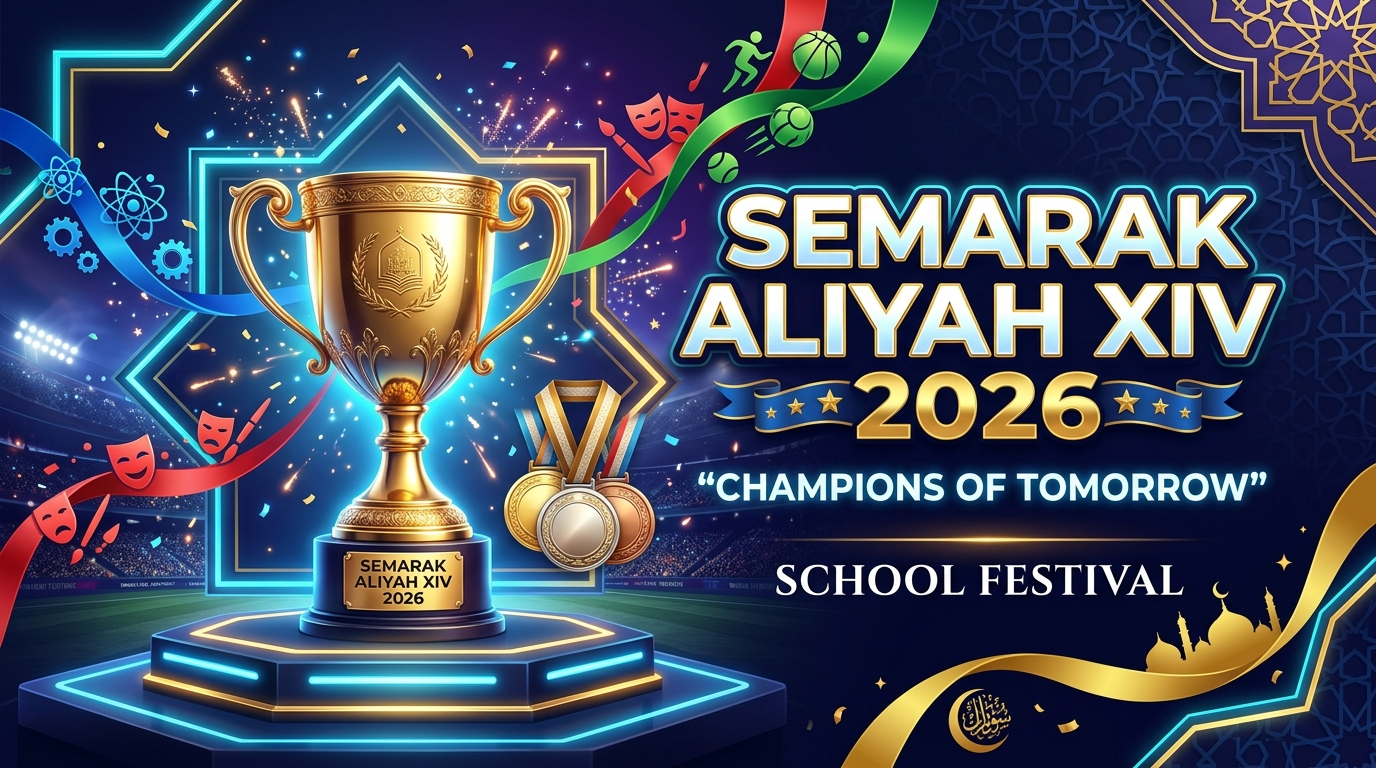
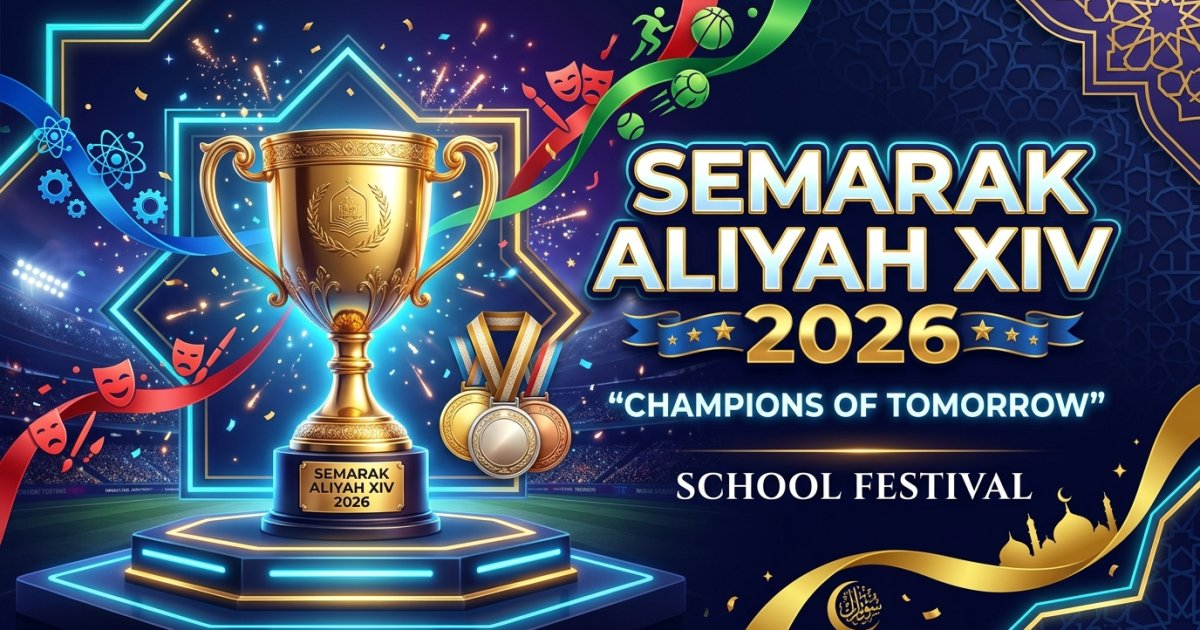
Auto commit

diff --git a/backend/resources/js/Pages/Admin/Settings/SeoOpenGraph.vue b/backend/resources/js/Pages/Admin/Settings/SeoOpenGraph.vue
@@ -311,7 +311,10 @@ function submitForm() {
                       class="form-control"
                       placeholder="/assets/img/og-thumbnail.jpg"
                     />
-                    <small class="text-muted fs-11 d-block mt-1">Ukuran ideal: 1200 x 630 px (Rasio 1.91:1) format JPG/PNG/WebP.</small>
+                    <small class="text-muted fs-11 d-block mt-1">
+                      <i class="ri-information-line text-info me-1"></i>
+                      Rekomendasi rasio: 1.91:1 (1200 x 630 px). WhatsApp mewajibkan ukuran file di bawah 300 KB. Sistem otomatis mengompresi gambar yang diunggah.
+                    </small>
                   </div>
 
                   <div class="col-md-5">

diff --git a/backend/resources/views/app.blade.php b/backend/resources/views/app.blade.php
@@ -15,14 +15,51 @@
         $seoKeywords = \App\Models\Setting::get('seo_meta_keywords', 'semarak aliyah, ma wahid hasyim balung, olimpiade mipa jember, olimpiade ips jember, storytelling, festival albanjari, singer lagu islami, voli jember, mobile legends');
         $seoAuthor = \App\Models\Setting::get('seo_author', 'Panitia ' . $eventName . ' • ' . $schoolName);
         $seoRobots = \App\Models\Setting::get('seo_robots', 'index, follow');
-        $seoCanonical = \App\Models\Setting::get('seo_canonical_url', url()->current());
         $seoThemeColor = \App\Models\Setting::get('seo_theme_color', '#8b5cf6');
+
+        $isHttps = request()->isSecure() || request()->header('x-forwarded-proto') === 'https' || str_starts_with(config('app.url'), 'https://');
+        
+        $currentUrl = url()->current();
+        if ($isHttps && str_starts_with($currentUrl, 'http://')) {
+            $currentUrl = 'https://' . substr($currentUrl, 7);
+        }
+
+        $seoCanonical = \App\Models\Setting::get('seo_canonical_url', $currentUrl);
+        if ($isHttps && str_starts_with($seoCanonical, 'http://')) {
+            $seoCanonical = 'https://' . substr($seoCanonical, 7);
+        }
+
         $ogTitle = \App\Models\Setting::get('seo_og_title', $seoTitle);
         $ogDesc = \App\Models\Setting::get('seo_og_description', $seoDesc);
-        $ogImage = \App\Models\Setting::get('seo_og_image', '/assets/img/og-thumbnail.jpg');
+        
+        $rawOgImage = \App\Models\Setting::get('seo_og_image', '/assets/img/og-thumbnail.jpg');
+        $ogImage = $rawOgImage;
         if (!str_starts_with($ogImage, 'http')) {
             $ogImage = url($ogImage);
         }
+        if ($isHttps && str_starts_with($ogImage, 'http://')) {
+            $ogImage = 'https://' . substr($ogImage, 7);
+        }
+        $ogImageSecure = str_replace('http://', 'https://', $ogImage);
+
+        // Specs image untuk card WhatsApp & Facebook
+        $parsedPath = parse_url($rawOgImage, PHP_URL_PATH) ?: $rawOgImage;
+        $localFilePath = public_path(ltrim($parsedPath, '/'));
+        $ogImageWidth = '1200';
+        $ogImageHeight = '630';
+        $ogImageType = 'image/jpeg';
+        $ogImageVersion = '';
+
+        if (file_exists($localFilePath)) {
+            $imgInfo = @getimagesize($localFilePath);
+            if ($imgInfo && !empty($imgInfo[0]) && !empty($imgInfo[1])) {
+                $ogImageWidth = (string)$imgInfo[0];
+                $ogImageHeight = (string)$imgInfo[1];
+                $ogImageType = $imgInfo['mime'] ?? 'image/jpeg';
+            }
+            $ogImageVersion = '?v=' . filemtime($localFilePath);
+        }
+
         $twitterCard = \App\Models\Setting::get('seo_twitter_card', 'summary_large_image');
     @endphp
 
@@ -36,18 +73,24 @@
 
     <!-- Open Graph / Facebook / WhatsApp -->
     <meta property="og:type" content="website" />
-    <meta property="og:url" content="{{ url()->current() }}" />
+    <meta property="og:locale" content="id_ID" />
+    <meta property="og:site_name" content="{{ $eventName }}" />
+    <meta property="og:url" content="{{ $currentUrl }}" />
     <meta property="og:title" content="{{ $ogTitle }}" />
     <meta property="og:description" content="{{ $ogDesc }}" />
-    <meta property="og:image" content="{{ $ogImage }}" />
-    <meta property="og:site_name" content="{{ $eventName }}" />
+    <meta property="og:image" content="{{ $ogImage . $ogImageVersion }}" />
+    <meta property="og:image:secure_url" content="{{ $ogImageSecure . $ogImageVersion }}" />
+    <meta property="og:image:type" content="{{ $ogImageType }}" />
+    <meta property="og:image:width" content="{{ $ogImageWidth }}" />
+    <meta property="og:image:height" content="{{ $ogImageHeight }}" />
+    <meta property="og:image:alt" content="{{ $ogTitle }}" />
 
     <!-- Twitter / X -->
     <meta name="twitter:card" content="{{ $twitterCard }}" />
-    <meta name="twitter:url" content="{{ url()->current() }}" />
+    <meta name="twitter:url" content="{{ $currentUrl }}" />
     <meta name="twitter:title" content="{{ $ogTitle }}" />
     <meta name="twitter:description" content="{{ $ogDesc }}" />
-    <meta name="twitter:image" content="{{ $ogImage }}" />
+    <meta name="twitter:image" content="{{ $ogImage . $ogImageVersion }}" />
 
     @if(request()->is('admin*') || request()->is('operasional*') || request()->is('login*'))
         <!-- Admin & Operasional Command Center Fonts & Assets -->

diff --git a/backend/app/Http/Controllers/Admin/SettingsController.php b/backend/app/Http/Controllers/Admin/SettingsController.php
@@ -225,8 +225,63 @@ class SettingsController extends Controller
         ]);
 
         if ($request->hasFile('seo_og_image_file')) {
-            $path = $request->file('seo_og_image_file')->store('seo', 'public');
-            $validated['seo_og_image'] = '/storage/' . $path;
+            $file = $request->file('seo_og_image_file');
+            $filename = 'og_' . time() . '.jpg';
+            $dir = storage_path('app/public/seo');
+            if (!file_exists($dir)) {
+                mkdir($dir, 0755, true);
+            }
+            $targetPath = $dir . DIRECTORY_SEPARATOR . $filename;
+            
+            $optimized = false;
+            if (extension_loaded('gd')) {
+                $srcImg = null;
+                $mime = $file->getMimeType();
+                $realPath = $file->getRealPath();
+
+                if ($mime === 'image/jpeg' || $mime === 'image/jpg') {
+                    $srcImg = @imagecreatefromjpeg($realPath);
+                } elseif ($mime === 'image/png') {
+                    $srcImg = @imagecreatefrompng($realPath);
+                } elseif ($mime === 'image/webp') {
+                    $srcImg = @imagecreatefromwebp($realPath);
+                }
+
+                if ($srcImg) {
+                    $origW = imagesx($srcImg);
+                    $origH = imagesy($srcImg);
+                    $targetW = 1200;
+                    $targetH = 630;
+                    $dstImg = imagecreatetruecolor($targetW, $targetH);
+
+                    // Smooth crop to 1200x630 (standard OG aspect ratio 1.91:1)
+                    $srcAspect = $origW / $origH;
+                    $targetAspect = $targetW / $targetH;
+                    if ($srcAspect > $targetAspect) {
+                        $newH = $origH;
+                        $newW = (int)($origH * $targetAspect);
+                        $srcX = (int)(($origW - $newW) / 2);
+                        $srcY = 0;
+                    } else {
+                        $newW = $origW;
+                        $newH = (int)($origW / $targetAspect);
+                        $srcX = 0;
+                        $srcY = (int)(($origH - $newH) / 2);
+                    }
+
+                    imagecopyresampled($dstImg, $srcImg, 0, 0, $srcX, $srcY, $targetW, $targetH, $newW, $newH);
+                    imagejpeg($dstImg, $targetPath, 85);
+                    imagedestroy($srcImg);
+                    imagedestroy($dstImg);
+                    $optimized = true;
+                }
+            }
+
+            if (!$optimized) {
+                $file->storeAs('seo', $filename, 'public');
+            }
+
+            $validated['seo_og_image'] = '/storage/seo/' . $filename;
         }
 
         foreach ($validated as $key => $value) {

diff --git a/backend/resources/views/public/register.blade.php b/backend/resources/views/public/register.blade.php
@@ -10,12 +10,19 @@
   <meta name="description" content="Portal Layanan Pendaftaran Resmi Peserta Semarak Aliyah XII 2026. Daftarkan delegasi SMP/MTs Anda di Olimpiade MIPA, IPS, Storytelling, Albanjari, Singer, dan Turnamen Olahraga.">
   <meta name="author" content="MA Unggulan Wahid Hasyim Balung">
 
-  <!-- Open Graph -->
+  <!-- Open Graph / Facebook / WhatsApp -->
   <meta property="og:type" content="website">
-  <meta property="og:url" content="https://semarak.maswahas.sch.id/layanan-registrasi/">
-  <meta property="og:title" content="Layanan Registrasi - SEMARAK ALIYAH XII 2026">
-  <meta property="og:description" content="Pendaftaran Peserta Semarak Aliyah XII 2026 - MA Unggulan Wahid Hasyim Balung, Jember.">
-  <meta property="og:image" content="/assets/img/pamflet.jpg">
+  <meta property="og:locale" content="id_ID">
+  <meta property="og:site_name" content="SEMARAK ALIYAH XIV 2026">
+  <meta property="og:url" content="https://semarak.maswahas.sch.id/layanan-registrasi">
+  <meta property="og:title" content="Layanan Registrasi - SEMARAK ALIYAH XIV 2026">
+  <meta property="og:description" content="Pendaftaran Peserta Semarak Aliyah XIV 2026 - MA Unggulan Wahid Hasyim Balung, Jember.">
+  <meta property="og:image" content="https://semarak.maswahas.sch.id/assets/img/og-thumbnail.jpg">
+  <meta property="og:image:secure_url" content="https://semarak.maswahas.sch.id/assets/img/og-thumbnail.jpg">
+  <meta property="og:image:type" content="image/jpeg">
+  <meta property="og:image:width" content="1200">
+  <meta property="og:image:height" content="630">
+  <meta property="og:image:alt" content="Pendaftaran SEMARAK ALIYAH XIV 2026">
 
   <!-- Favicon -->
   <link rel="icon" type="image/png" href="/assets/img/logo.png">

diff --git a/backend/resources/views/public/home.blade.php b/backend/resources/views/public/home.blade.php
@@ -11,12 +11,19 @@
   <meta name="keywords" content="Semarak Aliyah, Semarak Aliyah 2026, maswahas, MA Wahid Hasyim Balung, lomba jember, olimpiade smp jember, turnamen mobile legends jember">
   <meta name="author" content="MA Unggulan Wahid Hasyim Balung">
 
-  <!-- Open Graph / Facebook -->
+  <!-- Open Graph / Facebook / WhatsApp -->
   <meta property="og:type" content="website">
+  <meta property="og:locale" content="id_ID">
+  <meta property="og:site_name" content="SEMARAK ALIYAH XIV 2026">
   <meta property="og:url" content="https://semarak.maswahas.sch.id/">
-  <meta property="og:title" content="SEMARAK ALIYAH XII 2026 - Ajang Kompetisi Pelajar Bergengsi">
-  <meta property="og:description" content="Daftarkan sekolah dan madrasah Anda di Semarak Aliyah XII 2026. Raih piala juara, uang pembinaan, dan beasiswa pendidikan!">
-  <meta property="og:image" content="/assets/img/pamflet.jpg">
+  <meta property="og:title" content="SEMARAK ALIYAH XIV 2026 - Panggung Prestasi Pelajar SMP/MTs">
+  <meta property="og:description" content="Ajang kompetisi tahunan bergengsi siswa/i SMP/MTs sederajat se-Kabupaten Jember. Raih piala juara, piagam resmi, uang pembinaan jutaan rupiah, dan beasiswa pendidikan.">
+  <meta property="og:image" content="https://semarak.maswahas.sch.id/assets/img/og-thumbnail.jpg">
+  <meta property="og:image:secure_url" content="https://semarak.maswahas.sch.id/assets/img/og-thumbnail.jpg">
+  <meta property="og:image:type" content="image/jpeg">
+  <meta property="og:image:width" content="1200">
+  <meta property="og:image:height" content="630">
+  <meta property="og:image:alt" content="SEMARAK ALIYAH XIV 2026">
 
   <!-- Favicon -->
   <link rel="icon" type="image/png" href="/assets/img/logo.png">
